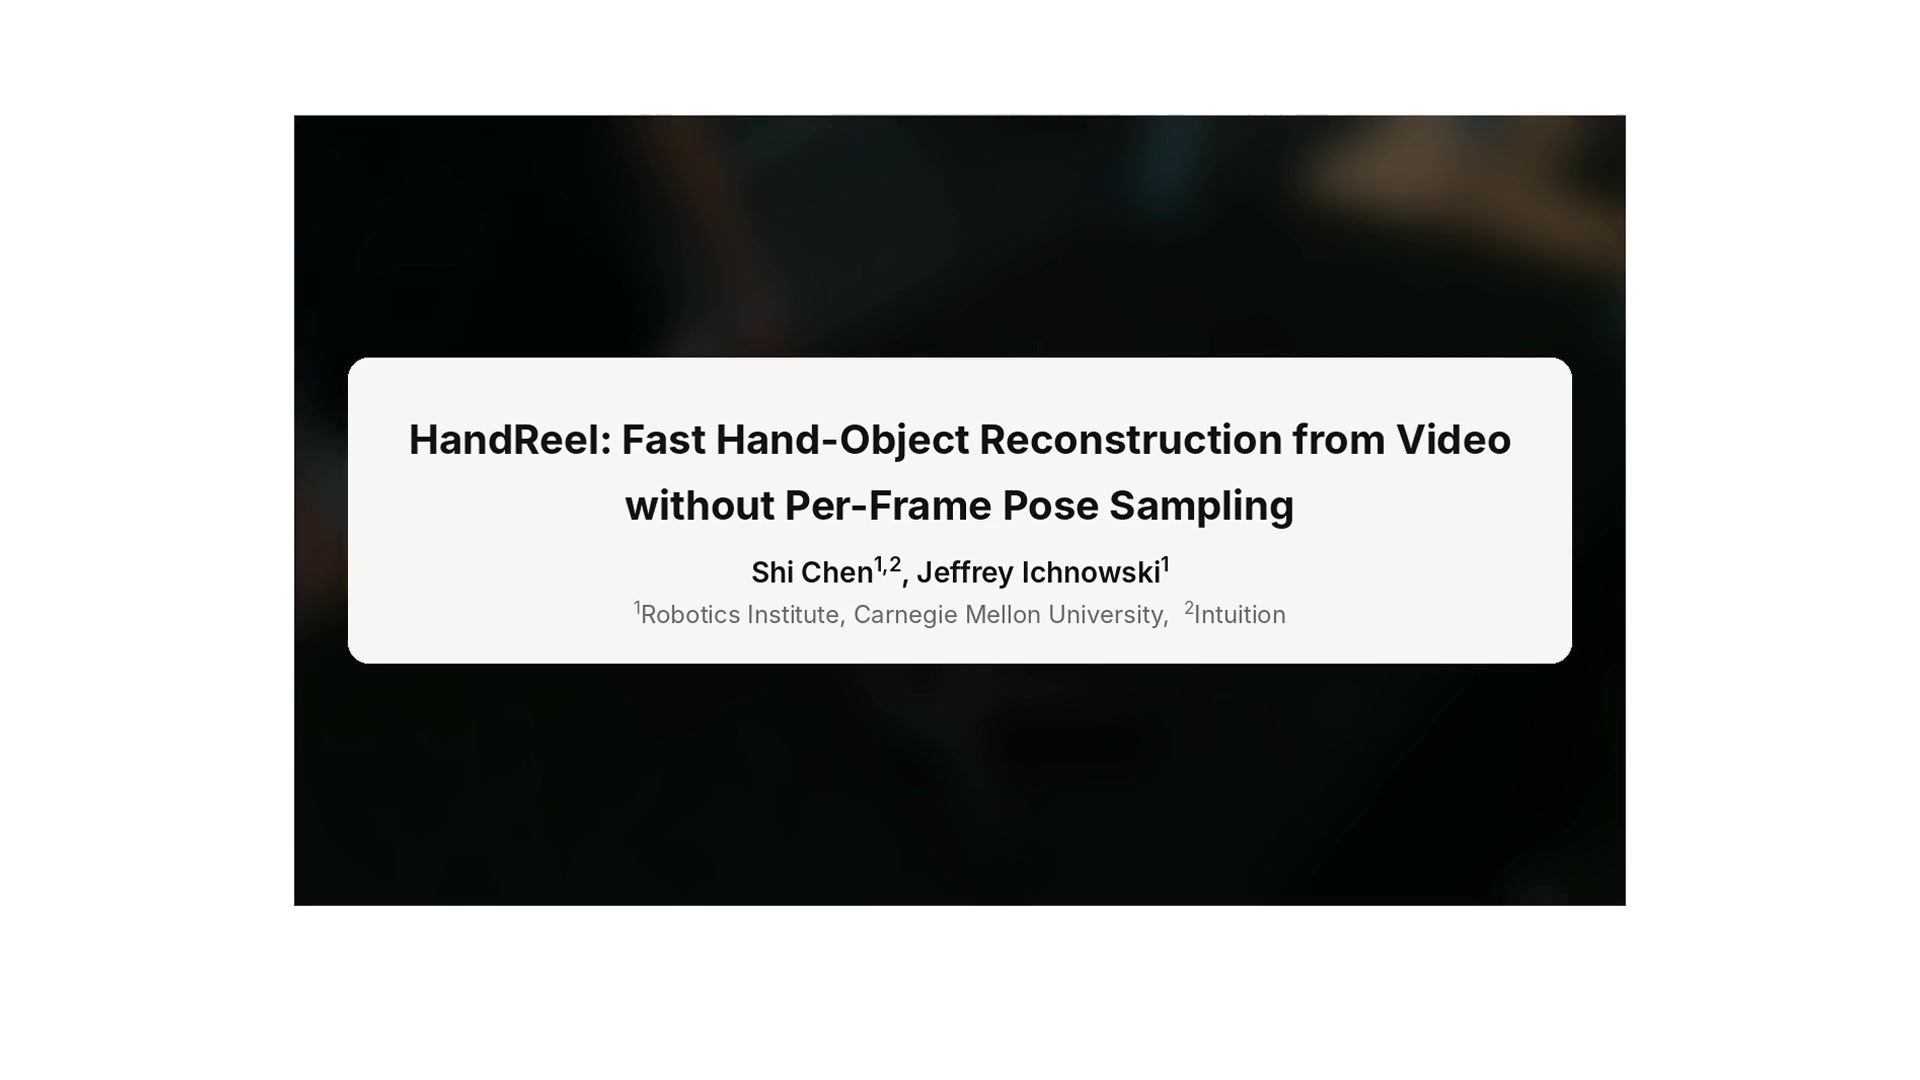
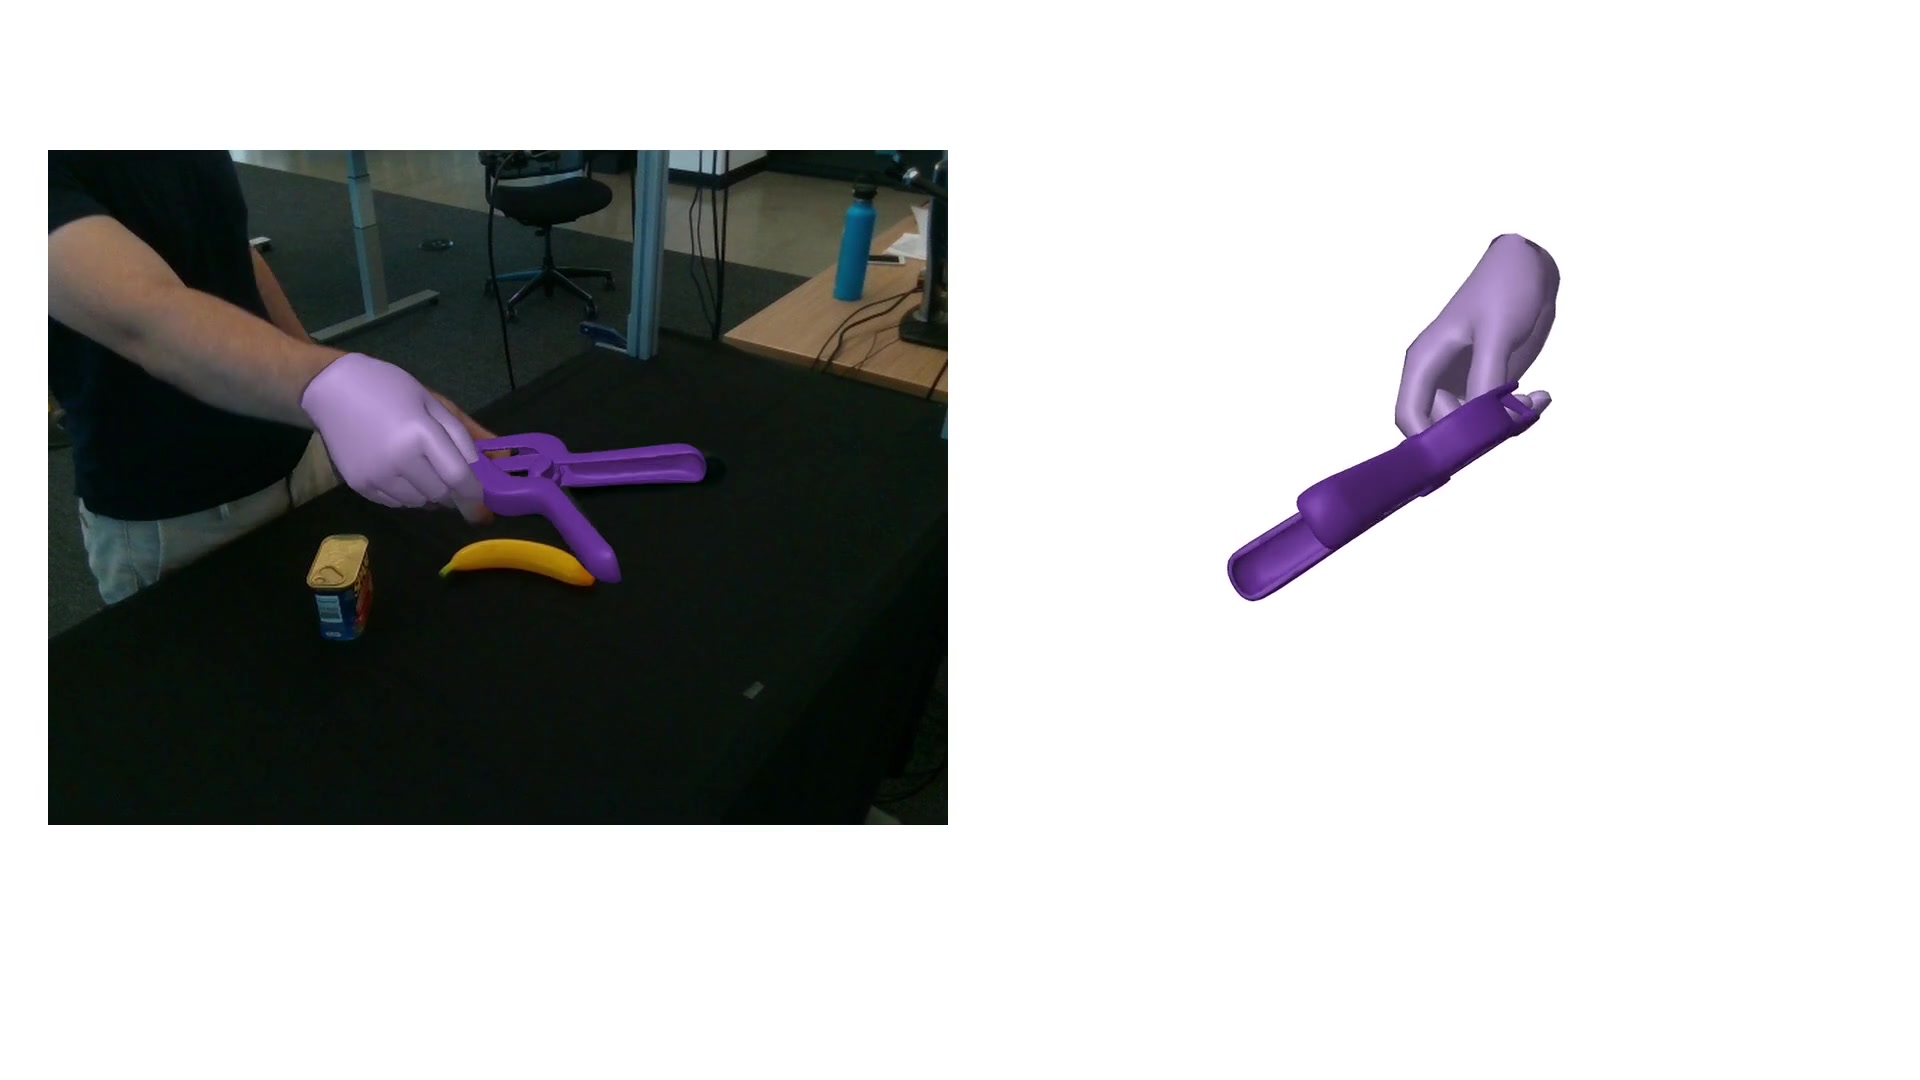
fix(site): live-site audit fixes: ratio note, result-frame poster, og:url, indexing, wording

diff --git a/index.html b/index.html
@@ -3,7 +3,6 @@
 <head>
 <meta charset="utf-8">
 <meta name="viewport" content="width=device-width, initial-scale=1">
-<meta name="robots" content="noindex,nofollow">
 <meta name="referrer" content="no-referrer">
 <meta http-equiv="Content-Security-Policy" content="default-src 'none'; script-src 'self'; style-src 'self'; img-src 'self'; media-src 'self' blob:; font-src 'self'; connect-src 'self'; frame-src 'self'; base-uri 'none'; form-action 'none'">
 <title>HandReel: Fast Hand-Object Reconstruction from Video without Per-Frame Pose Sampling</title>
@@ -11,6 +10,7 @@
 <meta property="og:type" content="website">
 <meta property="og:title" content="HandReel: Fast Hand-Object Reconstruction from Video without Per-Frame Pose Sampling">
 <meta property="og:description" content="HandReel turns a video of a hand moving an object into one 3D mesh of the object and its position and rotation over time.">
+<meta property="og:url" content="https://shichen.world/HandReel/">
 <meta property="og:image" content="https://shichen.world/HandReel/fig/fig4_gallery.jpg">
 <meta name="twitter:card" content="summary_large_image">
 <link rel="icon" href="favicon.svg" type="image/svg+xml">
@@ -86,7 +86,7 @@
   </div>
   <div class="wrap wide">
     <figure class="fig">
-      <video controls playsinline preload="none" width="1920" height="1080" poster="media/video/handreel_overview.jpg"><source src="media/video/handreel_overview.mp4" type="video/mp4"></video>
+      <video controls playsinline preload="none" width="1920" height="1080" poster="media/video/handreel_overview.jpg" aria-label="HandReel overview video, narrated, with burned-in captions"><source src="media/video/handreel_overview.mp4" type="video/mp4"></video>
     </figure>
   </div>
 </section>
@@ -119,7 +119,7 @@
 <section class="block" id="comparison">
   <div class="wrap narrow">
     <h2>Comparison</h2>
-    <p>One selected DexYCB development clip, start to end: ground truth (green), DO AS I DO's reconstruction stage (orange) and HandReel (purple, estimated hand lighter), with each one's object-centre error over time below.</p>
+    <p>One DexYCB development clip that we selected, start to end: ground truth (green), DO AS I DO's reconstruction stage (orange) and HandReel (purple, estimated hand lighter), with each one's object-centre error over time below.</p>
   </div>
   <div class="wrap wide">
     <figure class="fig">
@@ -173,7 +173,7 @@
 <text x="8.0" y="255" class="pl-val">17 s per segment, in batches</text>
 </svg>
 
-      <figcaption>Seconds per Ego4D segment on one H100 GPU. Ego4D has no ground-truth object poses, so it measures speed only. The paper gives the full protocol.</figcaption>
+      <figcaption>Seconds per Ego4D segment on one H100 GPU. Ratios use unrounded times. Ego4D has no ground-truth object poses, so on Ego4D we measure speed only. The paper gives the full protocol.</figcaption>
     </figure>
   </div>
 </section>
